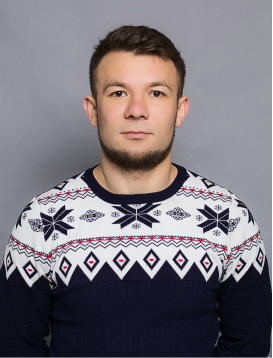
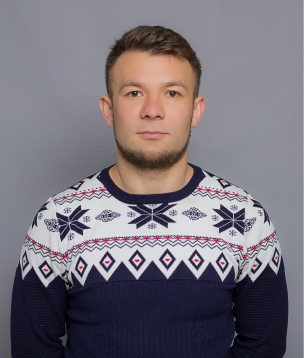
feat: add new images for team

Changed region(s): [[0.0, 0.0, 1.0, 1.0], [0.8791, 0.8296, 0.9084, 0.8603]]

diff --git a/src/assets/scss/layout/_team.scss b/src/assets/scss/layout/_team.scss
@@ -117,6 +117,7 @@
 
 .project_manager_block {
   background: url("../images/project_manager_face.png") no-repeat;
+  background-position-x: -15px;
 
   .worker_container-logo {
     background: url("../images/project_manager_logo.png");
@@ -125,6 +126,7 @@
 
 .designer_block {
   background: url("../images/designer_face.png") no-repeat;
+  background-position-x: -62px;
 
   .worker_container-logo {
     background: url("../images/designer_logo.png");
@@ -133,6 +135,7 @@
 
 .foreman_block {
   background: url("../images/foreman_face.png") no-repeat;
+  background-position-x: -62px;
 
   .worker_container-logo {
     background: url("../images/foreman_logo.png");
